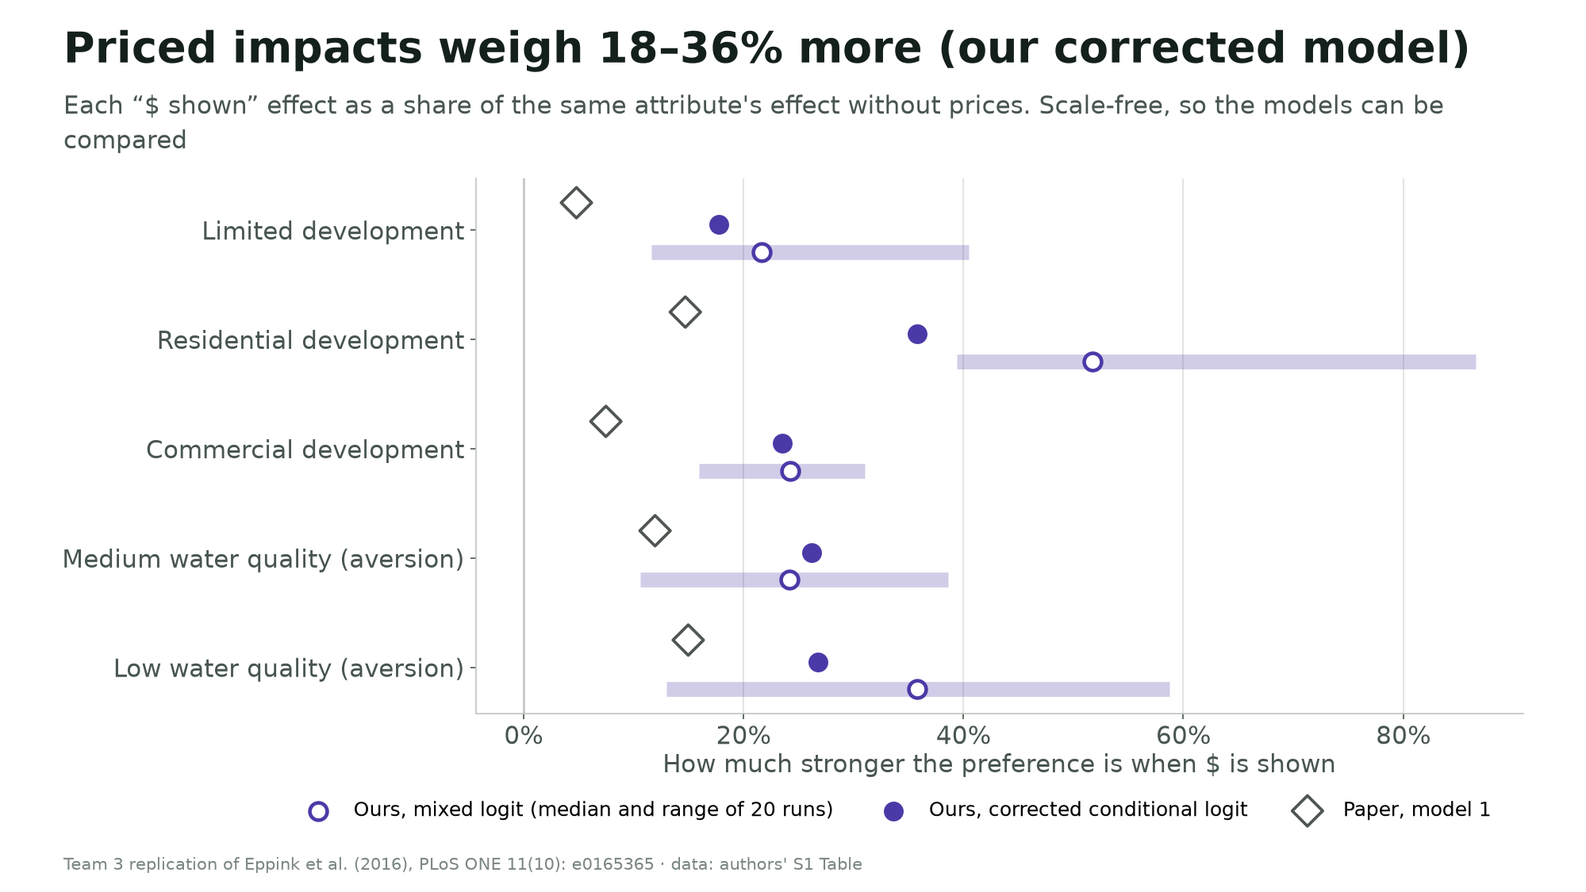
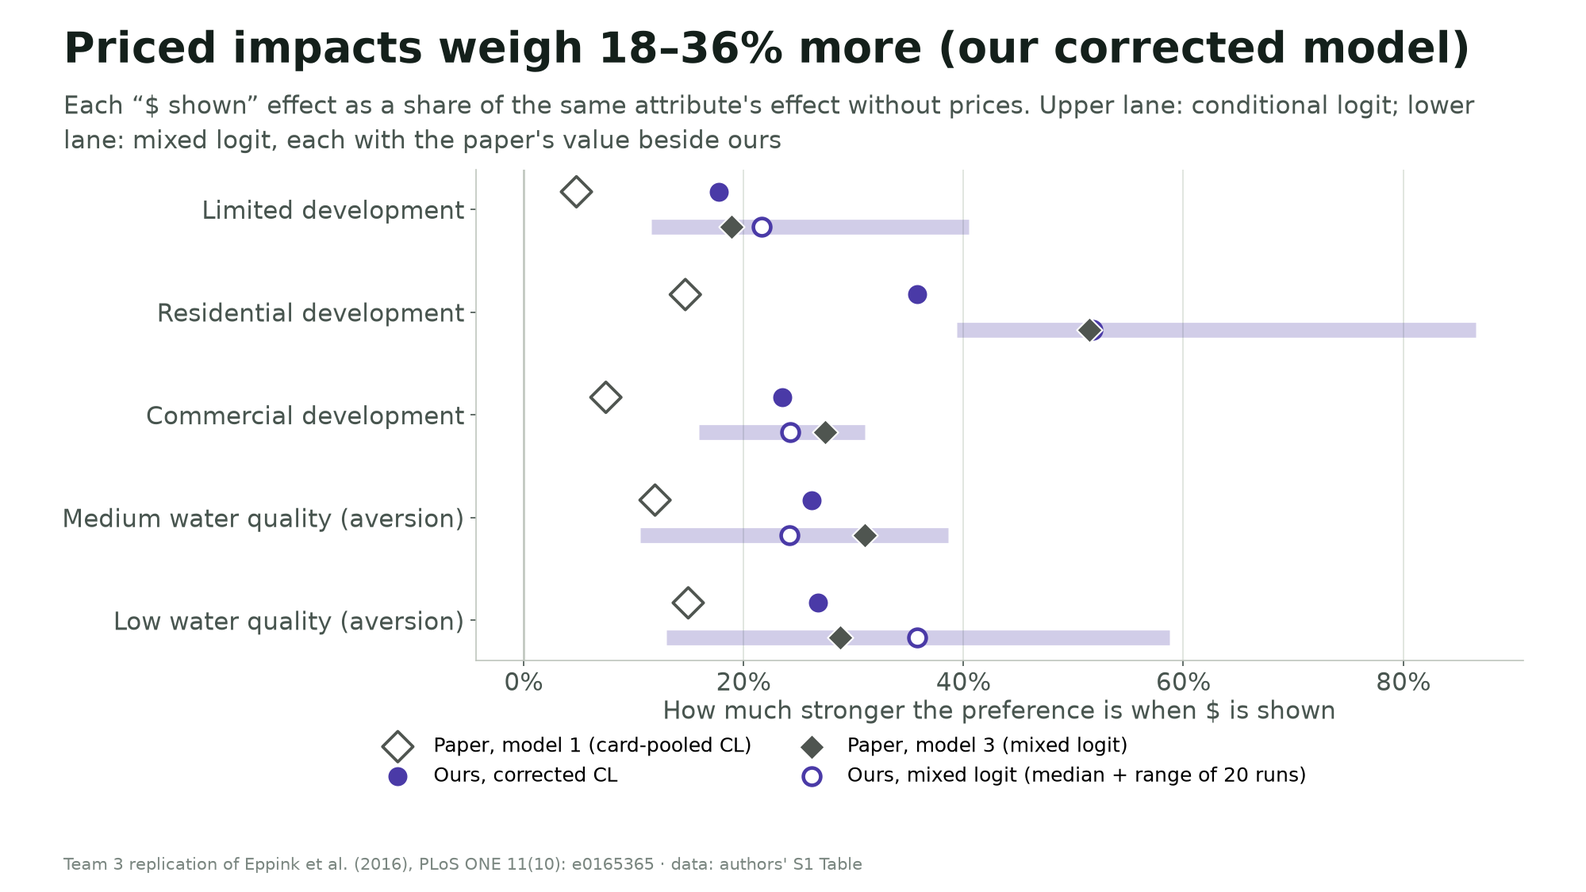
Effect-size chart: pair each of our estimates with the paper's matching model
- Two lanes per row: conditional logit (paper model 1 as published vs our
  corrected grouping) and mixed logit (paper model 3, new, vs our 20-run median)
- Takeaway text compares like with like: paper model 3 19-51% vs ours 22-52%;
  card-pooled model 1 5-15% vs corrected 18-36%
- Same pairing on slide 4; replication log section 8 updated

diff --git a/SS1-ECON5560-AppliedEconProj1/Replication-Project/Data-Parsing/dashboard/index.html b/SS1-ECON5560-AppliedEconProj1/Replication-Project/Data-Parsing/dashboard/index.html
@@ -146,6 +146,7 @@ select{font:500 .88rem var(--sans);color:var(--ink);background:var(--surface);bo
 .legend{display:flex;flex-wrap:wrap;gap:6px 16px;font-size:.8rem;color:var(--ink-2)}
 .legend i{display:inline-block;width:12px;height:12px;border-radius:3px;margin-right:6px;vertical-align:-1px}
 .legend .dia{width:10px;height:10px;border:2px solid var(--paper-mk);transform:rotate(45deg);border-radius:1px;background:transparent}
+.legend .dia2{width:10px;height:10px;transform:rotate(45deg);border-radius:1px;background:var(--paper-mk)}
 .legend .circ{border-radius:50%;background:var(--us)}
 .legend .ring{border-radius:50%;border:2px solid var(--us);background:transparent}
 .legend .rng{width:18px;height:6px;border-radius:3px;background:var(--us-soft)}
@@ -189,6 +190,8 @@ details .tscroll{margin-top:8px}
 .chart .mk-us{fill:var(--us);stroke:var(--surface);stroke-width:2}
 .chart .mk-ring{fill:var(--surface);stroke:var(--us);stroke-width:2.2}
 .chart .mk-paper{fill:none;stroke:var(--paper-mk);stroke-width:1.6}
+.chart .mk-paper2{fill:var(--paper-mk);stroke:var(--surface);stroke-width:1.5}
+.chart .lane{fill:var(--muted);font-size:10px;letter-spacing:.04em}
 .chart .hit{fill:transparent}
 .chart .hit:hover{fill:var(--surface-2);fill-opacity:.6}
 .chart .ref{stroke:var(--crit-ink);stroke-dasharray:4 3;stroke-width:1.3}
@@ -342,7 +345,7 @@ footer .wrap{display:grid;gap:8px}
 
 <section class="block" id="size"><div class="wrap">
   <div class="head"><div class="eyebrow">Comparing across models</div><h2>How much stronger does a preference get when a price is shown?</h2>
-    <p class="lede">Raw coefficients can't be compared across models because each model has its own scale. Dividing each “$ shown” effect by its baseline effect cancels the scale, leaving a plain percentage: how much stronger the pull (or push) becomes once a dollar figure is attached.</p></div>
+    <p class="lede">Raw coefficients can't be compared across models because each model has its own scale. Dividing each “$ shown” effect by its baseline effect cancels the scale, leaving a plain percentage: how much stronger the pull (or push) becomes once a dollar figure is attached. Each row has two lanes, one per model family, with the paper's value beside ours.</p></div>
   <div class="panel">
     <div class="legend" id="sLegend" style="margin-bottom:6px"></div>
     <div id="chRel"></div>
@@ -567,11 +570,12 @@ function groupedBars(host, cats, getVal, getTip, opt = {}) {
 
 /* ---------------- dot plot ---------------- */
 function dotPlot(host, rows, opt = {}) {
-  const W = host.clientWidth || 700, narrow = W < 520, lw = narrow ? 132 : 190, rh = narrow ? 30 : 28, gh = 26, pt = 4, pb = 40, pr = 14;
+  const W = host.clientWidth || 700, narrow = W < 520, lw = narrow ? 132 : 190, rh = opt.lanes ? 42 : narrow ? 30 : 28, gh = 26, pt = 4, pb = 40, pr = 14;
+  const up = opt.lanes ? -8 : 0, dn = opt.lanes ? 8 : 0;   // lane offsets: CL markers above, ML markers below
   let y = pt, last = null; const pos = [];
   rows.forEach(r => { if (r.group && r.group !== last) { pos.push({g: r.group, y}); y += gh; last = r.group; } pos.push({r, y: y + rh / 2}); y += rh; });
   const H = y + pb;
-  let vals = rows.flatMap(r => [r.paper, r.ours, r.ring, r.lo, r.hi, ...(r.runs || [])]).filter(v => v != null && isFinite(v));
+  let vals = rows.flatMap(r => [r.paper, r.paper2, r.ours, r.ring, r.lo, r.hi, ...(r.runs || [])]).filter(v => v != null && isFinite(v));
   let [mn, mx] = opt.domain || [Math.min(0, ...vals), Math.max(0, ...vals)];
   if (!opt.domain) { const pd = (mx - mn) * 0.05; mn -= pd; mx += pd; }
   const x0 = lw, x1 = W - pr, sx = v => x0 + (v - mn) / (mx - mn) * (x1 - x0);
@@ -585,11 +589,13 @@ function dotPlot(host, rows, opt = {}) {
     if (p.g) { txt(svg, 0, p.y + 17, p.g, "grp"); el("line", {x1: 0, x2: W - pr, y1: p.y + gh - 1.5, y2: p.y + gh - 1.5, class: "hair"}, svg); return; }
     const r = p.r, cy = p.y;
     txt(svg, lw - 12, cy + 4, r.label, narrow ? "labn" : "", "end");
-    (r.runs || []).forEach((v, i) => el("circle", {cx: sx(v), cy: cy + ((i * 7) % 11 - 5), r: 2.6, class: "run"}, svg));
-    if (r.lo != null) el("line", {x1: sx(r.lo), x2: sx(r.hi), y1: cy, y2: cy, class: "range"}, svg);
-    if (r.ring != null) el("circle", {cx: sx(r.ring), cy, r: 4.8, class: "mk-ring"}, svg);
-    if (r.ours != null) el("circle", {cx: sx(r.ours), cy, r: 4.6, class: "mk-us"}, svg);
-    if (r.paper != null) { const x = sx(r.paper), s = 8; el("path", {d: `M${x},${cy - s}L${x + s},${cy}L${x},${cy + s}L${x - s},${cy}Z`, class: "mk-paper"}, svg); }
+    const dia = (v, yy, s, cls) => { const x = sx(v); el("path", {d: `M${x},${yy - s}L${x + s},${yy}L${x},${yy + s}L${x - s},${yy}Z`, class: cls}, svg); };
+    (r.runs || []).forEach((v, i) => el("circle", {cx: sx(v), cy: cy + dn + ((i * 7) % 11 - 5), r: 2.6, class: "run"}, svg));
+    if (r.lo != null) el("line", {x1: sx(r.lo), x2: sx(r.hi), y1: cy + dn, y2: cy + dn, class: "range"}, svg);
+    if (r.ring != null) el("circle", {cx: sx(r.ring), cy: cy + dn, r: 4.8, class: "mk-ring"}, svg);
+    if (r.paper2 != null) dia(r.paper2, cy + dn, 6.5, "mk-paper2");
+    if (r.ours != null) el("circle", {cx: sx(r.ours), cy: cy + up, r: 4.6, class: "mk-us"}, svg);
+    if (r.paper != null) dia(r.paper, cy + up, 8, "mk-paper");
     const hit = el("rect", {x: 0, y: cy - rh / 2, width: W, height: rh, class: "hit"}, svg);
     svg.insertBefore(hit, svg.firstChild.nextSibling);
     hit.addEventListener("pointermove", e => showTip(e, r.tip)); hit.addEventListener("pointerleave", hideTip);
@@ -666,14 +672,15 @@ mount($("#chCoef"), () => drawModel());
 (function rel() {
   const keys = ["lim_money", "res_money", "com_money", "med_money", "low_money"];
   const base = {lim_money: "Limited development", res_money: "Residential development", com_money: "Commercial development", med_money: "Medium water quality", low_money: "Low water quality"};
-  $("#sLegend").innerHTML = `<span><i class="dia"></i>Paper, model 1 (CL)</span><span><i class="circ"></i>Ours, corrected CL</span><span><i class="ring"></i>Ours, mixed logit (median of 20 runs)</span><span><i class="rng"></i>Range of those runs</span>`;
-  const rows = keys.map(k => { const pc = DATA.cl_relative.m1.paper[k], cc = DATA.cl_relative.m1.corrected[k], ml = DATA.ml.m3.relative;
-    return {group: ["med_money", "low_money"].includes(k) ? "Water quality: extra aversion" : "Development: extra pull", label: SHORT[k].replace(" dev.", ""),
-      paper: pc, ours: cc, ring: ml.median[k], lo: ml.min[k], hi: ml.max[k],
-      tip: `<b>${base[k]}</b>: effect with $ shown, as a share of the effect without<br>Paper CL: <span class="num">${pct(pc)}</span><br>Corrected CL: <span class="num">${pct(cc)}</span><br>Mixed logit: <span class="num">${pct(ml.median[k])}</span> (runs ${pct(ml.min[k])} to ${pct(ml.max[k])})`}; });
-  const h = $("#chRel"); mount(h, () => dotPlot(h, rows, {aria: "Treatment effect as a percent of the baseline effect", tickFmt: t => Math.round(t * 100) + "%", xTitle: "How much stronger the preference is when $ is shown", xShort: "Extra strength when $ shown"}));
-  const c = DATA.cl_relative.m1.corrected;
-  $("#relTake").innerHTML = `In our corrected model, a price tag makes people <b>${pct(c.low_money)}</b> more averse to low water quality and <b>${pct(c.med_money)}</b> more averse to medium water quality. Residential development becomes <b>${pct(c.res_money)}</b> more attractive when its revenue is shown. The paper's own model 1 implies smaller shifts (${pct(DATA.cl_relative.m1.paper.low_money)} and ${pct(DATA.cl_relative.m1.paper.res_money)}). Every version agrees on the direction.`;
+  $("#sLegend").innerHTML = `<span><b>Conditional logit (upper lane):</b></span><span><i class="dia"></i>Paper, model 1 (card-pooled, as published)</span><span><i class="circ"></i>Ours, corrected grouping</span>` +
+    `<span style="flex-basis:100%;height:0"></span><span><b>Mixed logit (lower lane):</b></span><span><i class="dia2"></i>Paper, model 3</span><span><i class="ring"></i>Ours, median of 20 runs</span><span><i class="rng"></i>Range of those runs</span>`;
+  const ml = DATA.ml.m3.relative, p1 = DATA.cl_relative.m1.paper, c = DATA.cl_relative.m1.corrected;
+  const rows = keys.map(k => ({group: ["med_money", "low_money"].includes(k) ? "Water quality: extra aversion" : "Development: extra pull", label: SHORT[k].replace(" dev.", ""),
+      paper: p1[k], ours: c[k], paper2: ml.paper[k], ring: ml.median[k], lo: ml.min[k], hi: ml.max[k],
+      tip: `<b>${base[k]}</b>: effect with $ shown, as a share of the effect without<br><b>Conditional logit</b><br>Paper, model 1 (card-pooled): <span class="num">${pct(p1[k])}</span><br>Ours, corrected grouping: <span class="num">${pct(c[k])}</span><br><b>Mixed logit</b><br>Paper, model 3: <span class="num">${pct(ml.paper[k])}</span><br>Ours: <span class="num">${pct(ml.median[k])}</span> (20 runs: ${pct(ml.min[k])} to ${pct(ml.max[k])})`}));
+  const h = $("#chRel"); mount(h, () => dotPlot(h, rows, {lanes: true, aria: "Treatment effect as a percent of the baseline effect, paper and ours, conditional and mixed logit", tickFmt: t => Math.round(t * 100) + "%", xTitle: "How much stronger the preference is when $ is shown", xShort: "Extra strength when $ shown"}));
+  const rng = o => { const v = keys.map(k => o[k] * 100); return `${Math.round(Math.min(...v))}–${Math.round(Math.max(...v))}%`; };
+  $("#relTake").innerHTML = `Compare like with like. <b>Mixed logit:</b> the paper's model 3 implies a price tag strengthens a preference by <b>${rng(ml.paper)}</b>, and our runs give ${rng(ml.median)} (medians). <b>Conditional logit:</b> the paper's card-pooled model 1 implies only ${rng(p1)}; the same model grouped correctly gives <b>${rng(c)}</b>. So model 1 understates the effect relative to the paper's own mixed logit, and every version agrees on the direction.`;
 })();
 
 /* ---------------- findings ---------------- */

diff --git a/SS1-ECON5560-AppliedEconProj1/Replication-Project/Data-Parsing/dashboard/template.html b/SS1-ECON5560-AppliedEconProj1/Replication-Project/Data-Parsing/dashboard/template.html
@@ -140,6 +140,7 @@ select{font:500 .88rem var(--sans);color:var(--ink);background:var(--surface);bo
 .legend{display:flex;flex-wrap:wrap;gap:6px 16px;font-size:.8rem;color:var(--ink-2)}
 .legend i{display:inline-block;width:12px;height:12px;border-radius:3px;margin-right:6px;vertical-align:-1px}
 .legend .dia{width:10px;height:10px;border:2px solid var(--paper-mk);transform:rotate(45deg);border-radius:1px;background:transparent}
+.legend .dia2{width:10px;height:10px;transform:rotate(45deg);border-radius:1px;background:var(--paper-mk)}
 .legend .circ{border-radius:50%;background:var(--us)}
 .legend .ring{border-radius:50%;border:2px solid var(--us);background:transparent}
 .legend .rng{width:18px;height:6px;border-radius:3px;background:var(--us-soft)}
@@ -183,6 +184,8 @@ details .tscroll{margin-top:8px}
 .chart .mk-us{fill:var(--us);stroke:var(--surface);stroke-width:2}
 .chart .mk-ring{fill:var(--surface);stroke:var(--us);stroke-width:2.2}
 .chart .mk-paper{fill:none;stroke:var(--paper-mk);stroke-width:1.6}
+.chart .mk-paper2{fill:var(--paper-mk);stroke:var(--surface);stroke-width:1.5}
+.chart .lane{fill:var(--muted);font-size:10px;letter-spacing:.04em}
 .chart .hit{fill:transparent}
 .chart .hit:hover{fill:var(--surface-2);fill-opacity:.6}
 .chart .ref{stroke:var(--crit-ink);stroke-dasharray:4 3;stroke-width:1.3}
@@ -333,7 +336,7 @@ footer .wrap{display:grid;gap:8px}
 
 <section class="block" id="size"><div class="wrap">
   <div class="head"><div class="eyebrow">Comparing across models</div><h2>How much stronger does a preference get when a price is shown?</h2>
-    <p class="lede">Raw coefficients can't be compared across models because each model has its own scale. Dividing each “$ shown” effect by its baseline effect cancels the scale, leaving a plain percentage: how much stronger the pull (or push) becomes once a dollar figure is attached.</p></div>
+    <p class="lede">Raw coefficients can't be compared across models because each model has its own scale. Dividing each “$ shown” effect by its baseline effect cancels the scale, leaving a plain percentage: how much stronger the pull (or push) becomes once a dollar figure is attached. Each row has two lanes, one per model family, with the paper's value beside ours.</p></div>
   <div class="panel">
     <div class="legend" id="sLegend" style="margin-bottom:6px"></div>
     <div id="chRel"></div>
@@ -558,11 +561,12 @@ function groupedBars(host, cats, getVal, getTip, opt = {}) {
 
 /* ---------------- dot plot ---------------- */
 function dotPlot(host, rows, opt = {}) {
-  const W = host.clientWidth || 700, narrow = W < 520, lw = narrow ? 132 : 190, rh = narrow ? 30 : 28, gh = 26, pt = 4, pb = 40, pr = 14;
+  const W = host.clientWidth || 700, narrow = W < 520, lw = narrow ? 132 : 190, rh = opt.lanes ? 42 : narrow ? 30 : 28, gh = 26, pt = 4, pb = 40, pr = 14;
+  const up = opt.lanes ? -8 : 0, dn = opt.lanes ? 8 : 0;   // lane offsets: CL markers above, ML markers below
   let y = pt, last = null; const pos = [];
   rows.forEach(r => { if (r.group && r.group !== last) { pos.push({g: r.group, y}); y += gh; last = r.group; } pos.push({r, y: y + rh / 2}); y += rh; });
   const H = y + pb;
-  let vals = rows.flatMap(r => [r.paper, r.ours, r.ring, r.lo, r.hi, ...(r.runs || [])]).filter(v => v != null && isFinite(v));
+  let vals = rows.flatMap(r => [r.paper, r.paper2, r.ours, r.ring, r.lo, r.hi, ...(r.runs || [])]).filter(v => v != null && isFinite(v));
   let [mn, mx] = opt.domain || [Math.min(0, ...vals), Math.max(0, ...vals)];
   if (!opt.domain) { const pd = (mx - mn) * 0.05; mn -= pd; mx += pd; }
   const x0 = lw, x1 = W - pr, sx = v => x0 + (v - mn) / (mx - mn) * (x1 - x0);
@@ -576,11 +580,13 @@ function dotPlot(host, rows, opt = {}) {
     if (p.g) { txt(svg, 0, p.y + 17, p.g, "grp"); el("line", {x1: 0, x2: W - pr, y1: p.y + gh - 1.5, y2: p.y + gh - 1.5, class: "hair"}, svg); return; }
     const r = p.r, cy = p.y;
     txt(svg, lw - 12, cy + 4, r.label, narrow ? "labn" : "", "end");
-    (r.runs || []).forEach((v, i) => el("circle", {cx: sx(v), cy: cy + ((i * 7) % 11 - 5), r: 2.6, class: "run"}, svg));
-    if (r.lo != null) el("line", {x1: sx(r.lo), x2: sx(r.hi), y1: cy, y2: cy, class: "range"}, svg);
-    if (r.ring != null) el("circle", {cx: sx(r.ring), cy, r: 4.8, class: "mk-ring"}, svg);
-    if (r.ours != null) el("circle", {cx: sx(r.ours), cy, r: 4.6, class: "mk-us"}, svg);
-    if (r.paper != null) { const x = sx(r.paper), s = 8; el("path", {d: `M${x},${cy - s}L${x + s},${cy}L${x},${cy + s}L${x - s},${cy}Z`, class: "mk-paper"}, svg); }
+    const dia = (v, yy, s, cls) => { const x = sx(v); el("path", {d: `M${x},${yy - s}L${x + s},${yy}L${x},${yy + s}L${x - s},${yy}Z`, class: cls}, svg); };
+    (r.runs || []).forEach((v, i) => el("circle", {cx: sx(v), cy: cy + dn + ((i * 7) % 11 - 5), r: 2.6, class: "run"}, svg));
+    if (r.lo != null) el("line", {x1: sx(r.lo), x2: sx(r.hi), y1: cy + dn, y2: cy + dn, class: "range"}, svg);
+    if (r.ring != null) el("circle", {cx: sx(r.ring), cy: cy + dn, r: 4.8, class: "mk-ring"}, svg);
+    if (r.paper2 != null) dia(r.paper2, cy + dn, 6.5, "mk-paper2");
+    if (r.ours != null) el("circle", {cx: sx(r.ours), cy: cy + up, r: 4.6, class: "mk-us"}, svg);
+    if (r.paper != null) dia(r.paper, cy + up, 8, "mk-paper");
     const hit = el("rect", {x: 0, y: cy - rh / 2, width: W, height: rh, class: "hit"}, svg);
     svg.insertBefore(hit, svg.firstChild.nextSibling);
     hit.addEventListener("pointermove", e => showTip(e, r.tip)); hit.addEventListener("pointerleave", hideTip);
@@ -657,14 +663,15 @@ mount($("#chCoef"), () => drawModel());
 (function rel() {
   const keys = ["lim_money", "res_money", "com_money", "med_money", "low_money"];
   const base = {lim_money: "Limited development", res_money: "Residential development", com_money: "Commercial development", med_money: "Medium water quality", low_money: "Low water quality"};
-  $("#sLegend").innerHTML = `<span><i class="dia"></i>Paper, model 1 (CL)</span><span><i class="circ"></i>Ours, corrected CL</span><span><i class="ring"></i>Ours, mixed logit (median of 20 runs)</span><span><i class="rng"></i>Range of those runs</span>`;
-  const rows = keys.map(k => { const pc = DATA.cl_relative.m1.paper[k], cc = DATA.cl_relative.m1.corrected[k], ml = DATA.ml.m3.relative;
-    return {group: ["med_money", "low_money"].includes(k) ? "Water quality: extra aversion" : "Development: extra pull", label: SHORT[k].replace(" dev.", ""),
-      paper: pc, ours: cc, ring: ml.median[k], lo: ml.min[k], hi: ml.max[k],
-      tip: `<b>${base[k]}</b>: effect with $ shown, as a share of the effect without<br>Paper CL: <span class="num">${pct(pc)}</span><br>Corrected CL: <span class="num">${pct(cc)}</span><br>Mixed logit: <span class="num">${pct(ml.median[k])}</span> (runs ${pct(ml.min[k])} to ${pct(ml.max[k])})`}; });
-  const h = $("#chRel"); mount(h, () => dotPlot(h, rows, {aria: "Treatment effect as a percent of the baseline effect", tickFmt: t => Math.round(t * 100) + "%", xTitle: "How much stronger the preference is when $ is shown", xShort: "Extra strength when $ shown"}));
-  const c = DATA.cl_relative.m1.corrected;
-  $("#relTake").innerHTML = `In our corrected model, a price tag makes people <b>${pct(c.low_money)}</b> more averse to low water quality and <b>${pct(c.med_money)}</b> more averse to medium water quality. Residential development becomes <b>${pct(c.res_money)}</b> more attractive when its revenue is shown. The paper's own model 1 implies smaller shifts (${pct(DATA.cl_relative.m1.paper.low_money)} and ${pct(DATA.cl_relative.m1.paper.res_money)}). Every version agrees on the direction.`;
+  $("#sLegend").innerHTML = `<span><b>Conditional logit (upper lane):</b></span><span><i class="dia"></i>Paper, model 1 (card-pooled, as published)</span><span><i class="circ"></i>Ours, corrected grouping</span>` +
+    `<span style="flex-basis:100%;height:0"></span><span><b>Mixed logit (lower lane):</b></span><span><i class="dia2"></i>Paper, model 3</span><span><i class="ring"></i>Ours, median of 20 runs</span><span><i class="rng"></i>Range of those runs</span>`;
+  const ml = DATA.ml.m3.relative, p1 = DATA.cl_relative.m1.paper, c = DATA.cl_relative.m1.corrected;
+  const rows = keys.map(k => ({group: ["med_money", "low_money"].includes(k) ? "Water quality: extra aversion" : "Development: extra pull", label: SHORT[k].replace(" dev.", ""),
+      paper: p1[k], ours: c[k], paper2: ml.paper[k], ring: ml.median[k], lo: ml.min[k], hi: ml.max[k],
+      tip: `<b>${base[k]}</b>: effect with $ shown, as a share of the effect without<br><b>Conditional logit</b><br>Paper, model 1 (card-pooled): <span class="num">${pct(p1[k])}</span><br>Ours, corrected grouping: <span class="num">${pct(c[k])}</span><br><b>Mixed logit</b><br>Paper, model 3: <span class="num">${pct(ml.paper[k])}</span><br>Ours: <span class="num">${pct(ml.median[k])}</span> (20 runs: ${pct(ml.min[k])} to ${pct(ml.max[k])})`}));
+  const h = $("#chRel"); mount(h, () => dotPlot(h, rows, {lanes: true, aria: "Treatment effect as a percent of the baseline effect, paper and ours, conditional and mixed logit", tickFmt: t => Math.round(t * 100) + "%", xTitle: "How much stronger the preference is when $ is shown", xShort: "Extra strength when $ shown"}));
+  const rng = o => { const v = keys.map(k => o[k] * 100); return `${Math.round(Math.min(...v))}–${Math.round(Math.max(...v))}%`; };
+  $("#relTake").innerHTML = `Compare like with like. <b>Mixed logit:</b> the paper's model 3 implies a price tag strengthens a preference by <b>${rng(ml.paper)}</b>, and our runs give ${rng(ml.median)} (medians). <b>Conditional logit:</b> the paper's card-pooled model 1 implies only ${rng(p1)}; the same model grouped correctly gives <b>${rng(c)}</b>. So model 1 understates the effect relative to the paper's own mixed logit, and every version agrees on the direction.`;
 })();
 
 /* ---------------- findings ---------------- */

diff --git a/SS1-ECON5560-AppliedEconProj1/Replication-Project/Data-Parsing/06_slide_figures.py b/SS1-ECON5560-AppliedEconProj1/Replication-Project/Data-Parsing/06_slide_figures.py
@@ -98,20 +98,23 @@ save(fig, "slide3_grouping_issue.png")
 ml = json.loads((RES_OUT / "ml.json").read_text())
 rc = [cl["relative"]["m1"]["corrected"][t] * 100 for t in TREAT]
 fig = slide(f"Priced impacts weigh {min(rc):.0f}–{max(rc):.0f}% more (our corrected model)",
-            "Each “$ shown” effect as a share of the same attribute's effect without prices. Scale-free, so the models can be compared")
-ax = fig.add_axes([0.3, 0.2, 0.66, 0.6])
+            "Each “$ shown” effect as a share of the same attribute's effect without prices. Upper lane: conditional logit; lower lane: mixed logit, each with the paper's value beside ours")
+ax = fig.add_axes([0.3, 0.26, 0.66, 0.55])
 labs = ["Limited development", "Residential development", "Commercial development", "Medium water quality (aversion)", "Low water quality (aversion)"]
 yy = np.arange(5)[::-1]
 rel_p = [cl["relative"]["m1"]["paper"][t] for t in TREAT]
 rel_c = [cl["relative"]["m1"]["corrected"][t] for t in TREAT]
 r = ml["m3"]["relative"]; med = [r["median"][t] for t in TREAT]; lo = [r["min"][t] for t in TREAT]; hi = [r["max"][t] for t in TREAT]
-ax.hlines(yy - 0.2, np.array(lo) * 100, np.array(hi) * 100, color=US, alpha=0.25, lw=9)
-ax.scatter(np.array(med) * 100, yy - 0.2, s=110, facecolor="white", edgecolor=US, lw=2.2, zorder=3, label="Ours, mixed logit (median and range of 20 runs)")
-ax.scatter(np.array(rel_c) * 100, yy + 0.05, s=120, color=US, zorder=3, label="Ours, corrected conditional logit")
-ax.scatter(np.array(rel_p) * 100, yy + 0.25, s=170, marker="D", facecolor="none", edgecolor=PAPER, lw=1.8, zorder=3, label="Paper, model 1")
+rel_p3 = [r["paper"][t] for t in TREAT]                                   # paper's own mixed logit (model 3)
+# two lanes per row: conditional logit pair above, mixed logit pair below
+ax.scatter(np.array(rel_p) * 100, yy + 0.17, s=170, marker="D", facecolor="none", edgecolor=PAPER, lw=1.8, zorder=3, label="Paper, model 1 (card-pooled CL)")
+ax.scatter(np.array(rel_c) * 100, yy + 0.17, s=110, color=US, zorder=4, label="Ours, corrected CL")
+ax.hlines(yy - 0.17, np.array(lo) * 100, np.array(hi) * 100, color=US, alpha=0.25, lw=9)
+ax.scatter(np.array(rel_p3) * 100, yy - 0.17, s=120, marker="D", color=PAPER, edgecolor="white", lw=1, zorder=4, label="Paper, model 3 (mixed logit)")
+ax.scatter(np.array(med) * 100, yy - 0.17, s=110, facecolor="white", edgecolor=US, lw=2.2, zorder=3, label="Ours, mixed logit (median + range of 20 runs)")
 ax.set_yticks(yy); ax.set_yticklabels(labs); ax.axvline(0, color="#bfc6be", lw=1.2)
 ax.xaxis.set_major_formatter(matplotlib.ticker.FuncFormatter(lambda v, _: f"{v:.0f}%"))
 ax.set_xlabel("How much stronger the preference is when $ is shown", labelpad=2); ax.grid(axis="x", color=HAIR); ax.set_axisbelow(True)
-ax.legend(frameon=False, fontsize=12, loc="upper center", bbox_to_anchor=(0.4, -0.13), ncol=3)
+ax.legend(frameon=False, fontsize=12, loc="upper center", bbox_to_anchor=(0.35, -0.12), ncol=2)
 save(fig, "slide4_effect_size.png")
 print("Wrote", ", ".join(sorted(p.name for p in SLIDES.glob("*.png"))))

diff --git a/SS1-ECON5560-AppliedEconProj1/Replication-Project/Data-Parsing/REPLICATION_LOG.md b/SS1-ECON5560-AppliedEconProj1/Replication-Project/Data-Parsing/REPLICATION_LOG.md
@@ -81,7 +81,7 @@ Same regressors, grouped by person × card, with standard errors clustered by re
 | Medium water × $ | −0.473 (0.076) | −0.584 (0.084) | −0.364 (0.346) |
 | Low water × $ | −0.919 (0.082) | −1.023 (0.100) | −0.645 (0.329) |
 
-Scale-free version (the "$ shown" effect as a share of its main effect), corrected model 1: low water becomes **27%** more aversive and residential development **36%** more attractive when priced. The paper's model 1 implies 15% and 15%. **Direction is robust; size and significance depend on specification.**
+Scale-free version (the "$ shown" effect as a share of its main effect), corrected model 1: low water becomes **27%** more aversive and residential development **36%** more attractive when priced. The paper's model 1 implies 15% and 15%. Compared like for like, the paper's own mixed logit (model 3) implies 19–51% (low water 29%, residential 51%), close to our mixed-logit medians (22–52%). Only the card-pooled model 1 is much lower (5–15%), because pooling roughly doubles the main effects (the denominators) while leaving the "$ shown" terms about the same. **Direction is robust; size and significance depend on specification.**
 
 ## 9. Mixed logit (models 3–4)
 - Stata was not available, so we wrote a panel mixed logit estimator in numpy/scipy (`common.MixedLogit`, following Train 2009, chapters 6 and 9–11). All 12 coefficients are independent normals, estimated by simulated maximum likelihood with scrambled Halton draws.
